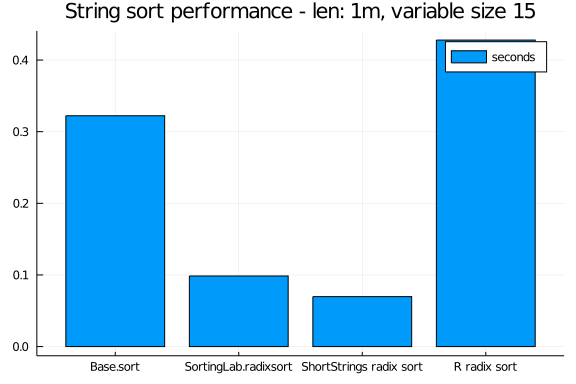
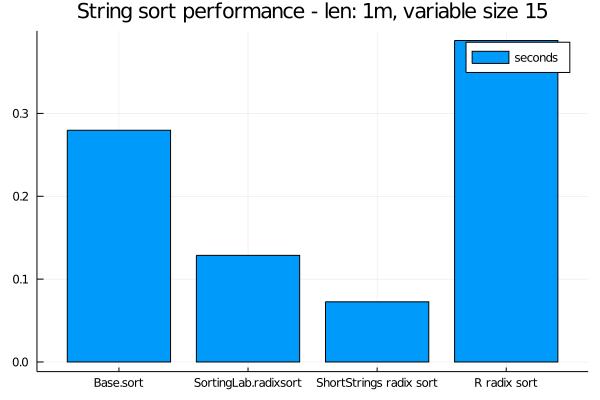
Ran Weave on README

Changed region(s): [[0.0, 0.0938, 0.9688, 0.9688], [0.0938, 0.0, 0.9375, 0.0625]]

diff --git a/README.md b/README.md
@@ -39,11 +39,11 @@ s31 = ss"This also is a long string"
 ```
 
 ```
-0.364908 seconds (126 allocations: 11.450 MiB, 18.42% gc time, 0.58% comp
+0.386383 seconds (126 allocations: 11.450 MiB, 18.62% gc time, 0.59% comp
 ilation time)
-  0.272636 seconds (742.25 k allocations: 74.315 MiB, 72.72% compilation ti
+  0.279547 seconds (742.26 k allocations: 74.320 MiB, 70.85% compilation ti
 me)
-"This als\n-m\x0e\$\x8cm\ue865́\x84\xb1ͽ\xb4\xb4"
+"This also is a long string"
 ```
 
 
@@ -77,12 +77,7 @@ bar(["Base.sort","SortingLab.radixsort","ShortStrings radix sort", "R radix sort
     label = "seconds")
 ```
 
-```
-Error: Failed to precompile RCall [6f49c342-dc21-5d91-9882-a32aef131414] to
- /Users/scott/.julia/compiled/v1.6/RCall/jl_qGsa5M.
-```
-
-
+![](figures/README_2_1.png)
 
 ```julia
 using SortingLab, ShortStrings, SortingAlgorithms, BenchmarkTools;
@@ -108,12 +103,7 @@ bar(["Base.sort","SortingLab.radixsort","ShortStrings radix sort", "R radix sort
     label = "seconds")
 ```
 
-```
-Error: Failed to precompile RCall [6f49c342-dc21-5d91-9882-a32aef131414] to
- /Users/scott/.julia/compiled/v1.6/RCall/jl_dusAht.
-```
-
-
+![](figures/README_3_1.png)
 
 
 
